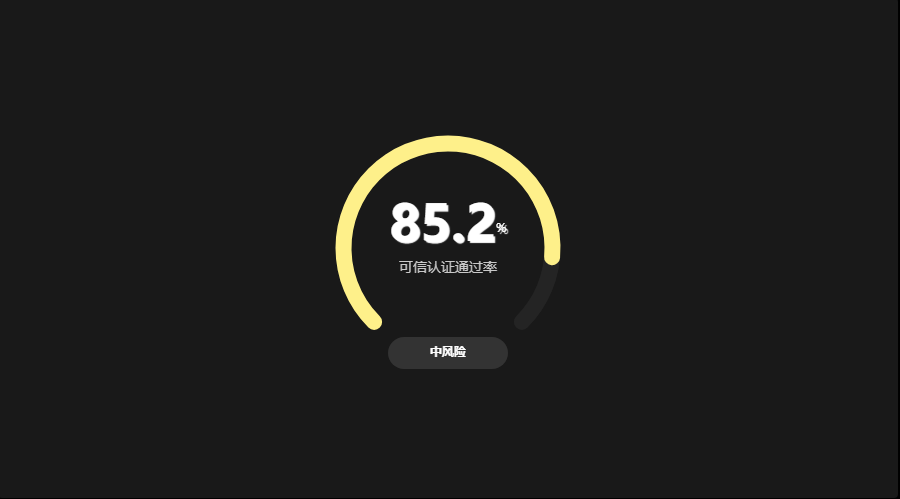
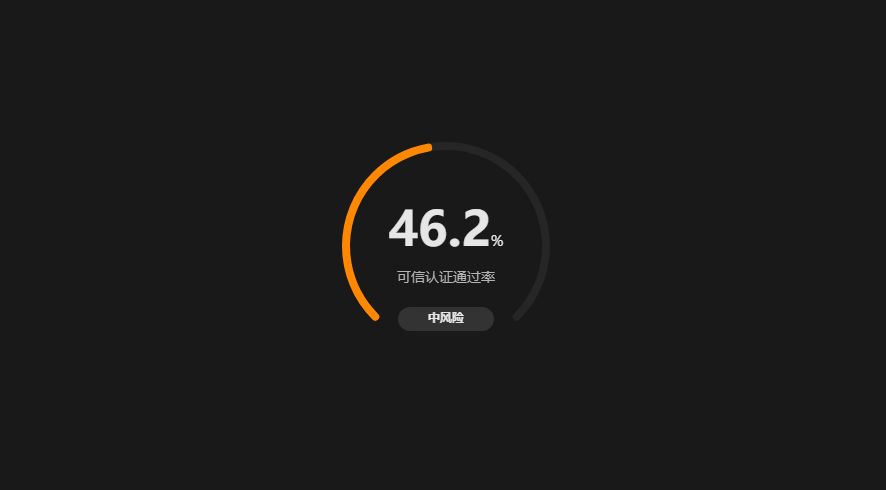
feat(GaugeChart): added status attribute to control dashboard display status

Changed region(s): [[0.3657, 0.2449, 0.64, 0.7653]]

diff --git a/src/components/GaugeChart/handleSeries.js b/src/components/GaugeChart/handleSeries.js
@@ -435,9 +435,9 @@ function handleOther(iChartOption, seriesUnit, series, data) {
   }
 }
 
-function handleStatus(seriesUnit, iChartOption){
-  let status = iChartOption.data[0].status;
-  let statusText = iChartOption.data[0].statusText;
+function handleStatus(seriesUnit, iChartOption,containerWidth){
+  let status = iChartOption.status;
+  let statusText = iChartOption.statusText;
   let statusColor = {
     error: Token.config.colorAlarms.colorAlarmError,
     fatal: Token.config.colorAlarms.colorAlarmFatal,
@@ -446,6 +446,12 @@ function handleStatus(seriesUnit, iChartOption){
     warning: Token.config.colorAlarms.colorAlarmWarning,
     success: Token.config.colorState.colorSuccess
   }
+  let radius = seriesUnit.radius.indexOf('%') == -1 ? seriesUnit.radius : containerWidth * parseFloat(seriesUnit.radius) / 100 / 2;
+  let lineHeight = radius / 104 * 110;
+  let valuePadding = radius / 104 * 115;
+  let namePadding = valuePadding + 30;
+  let unitPadding = valuePadding + 48;
+
   let statusLabel = {
     fatal: '致命',
     error: '高风险',
@@ -461,42 +467,46 @@ function handleStatus(seriesUnit, iChartOption){
     return
   }
   seriesUnit.color = color;
-
+  
   if(!seriesUnit.text) {
     let name = iChartOption.data[0].name;
+  
     seriesUnit.detail = {
       valueAnimation: true,
-      offset: ['0%', '35%'],
+      offsetCenter: [0, 0],
       formatter: function (value) {
-        
-          return '{value|' + value + '}{unit|%}\n{name|'+ name +'}\n\n\n{status|'+ label +'}'
+          return '{value|' + value + '}{unit|%}\n{name|'+ name +'}\n{status|'+ label +'}'
       },
       rich: {
         value: {
-          fontSize: 50,
+          fontSize: 48,
           fontWeight: 'bolder',
           color: chartToken.detailRichColor,
-          padding: [0, 0, 30, 0]
+          padding: [valuePadding, 0, 0, 0],
+    
         },
         unit: {
           fontSize: 14,
           color: chartToken.unitColor,
-          padding: [22, 0, 30, 0],
+          padding: [unitPadding, 0, 30, 0],
         },
         name: {
           fontSize: 14,
           color: chartToken.descRichColor,
-          padding: [15, 5, 5, 5],
+          padding: [namePadding, 0, 0, 0],
         },
         status: {
           fontWeight: 'bolder',
           fontSize: 12,
           color: chartToken.detailRichColor,
-          backgroundColor: chartToken.colorBgControl,
-          width: 120,
-          height: 32,
+          backgroundColor: chartToken.btnBgColor,
+          width: 96,
+          height: 24,
           borderRadius: 20,
+
+          lineHeight: lineHeight,
           align: 'center',
+          verticalAlign: 'bottom'
         }
       }
     }
@@ -534,7 +544,7 @@ function setSeriesInit(seriesUnit, iChartOption) {
  * @param {数据} data
  * @returns
  */
-function handleSeries(iChartOption) {
+function handleSeries(iChartOption,optionColor,containerWidth) {
   const data = iChartOption.data.length ? iChartOption.data : [{value:0,name: ''}];
   const text = iChartOption.text || {};
   const axisLabelStyle = iChartOption.axisLabelStyle || {};
@@ -562,7 +572,7 @@ function handleSeries(iChartOption) {
   handleProgress(seriesUnit, iChartOption, data);
   handleAxisLine(seriesUnit, iChartOption);
   // 内置状态仪表盘
-  handleStatus(seriesUnit, iChartOption);
+  handleStatus(seriesUnit, iChartOption,containerWidth);
 
   // 轨道颜色分块、progress渐变只能二选一
   handleOther(iChartOption, seriesUnit, series, data);

diff --git a/src/components/GaugeChart/index.js b/src/components/GaugeChart/index.js
@@ -32,12 +32,14 @@ class GaugeChart {
   }
 
   updateOption(iChartOption, chartInstance) {
+    let containerDom = chartInstance._dom;
+    let containerWidth = containerDom.clientWidth;
     // 图表基础颜色
     this.baseOption.color = iChartOption.color;
     // 图表鼠标悬浮提示框
     this.baseOption.tooltip = handleTooltip(iChartOption, CHART_TYPE.GAUGE);
     // 赋值数据
-    this.baseOption.series = handleSeries(iChartOption, this.baseOption.color);
+    this.baseOption.series = handleSeries(iChartOption, this.baseOption.color,containerWidth);
     // 合并用户自定义series
     this.baseOption.legend.show = false;
     mergeSeries(iChartOption, this.baseOption);
@@ -45,6 +47,7 @@ class GaugeChart {
 
   getOption() {
     return this.baseOption;
+   
   }
 
   setOption() { }

diff --git a/public/option/GaugeChart/GaugeChart-23.js b/public/option/GaugeChart/GaugeChart-23.js
@@ -2,18 +2,18 @@ const option = {
     theme: 'hdesign-light',
     position: {
         center: ['50%', '50%'],
-        radius: '45%',
+        radius: '104',
     },
     color: '#5CB300',
     splitNumber: 5,
     splitLine: {
         show: false,
     },
+    status: 'warning',
     data: [
         {
-            value: 85.2,
-            name: '可信认证通过率',
-            status: 'ordinary'
+            value: 46.2,
+            name: '可信认证通过率'
         }  
     ]
 };

diff --git a/doc/api/GaugeChart/status.md b/doc/api/GaugeChart/status.md
@@ -1,5 +1,5 @@
 默认值：`无`
 
-可选值：`error`（致命） , `fatal`（高风险） , `fatal`（高风险） , `ordinary`（中风险） , `secondary`（低风险） , `warning`（提示）, `warning`（正常）
+可选值：`fatal`（致命） , `error`（高风险） , `warning`（中风险） , `secondary`（低风险） , `ordinary`（提示）, `scuccess`（正常）
 
 说明：配置仪表盘状态
